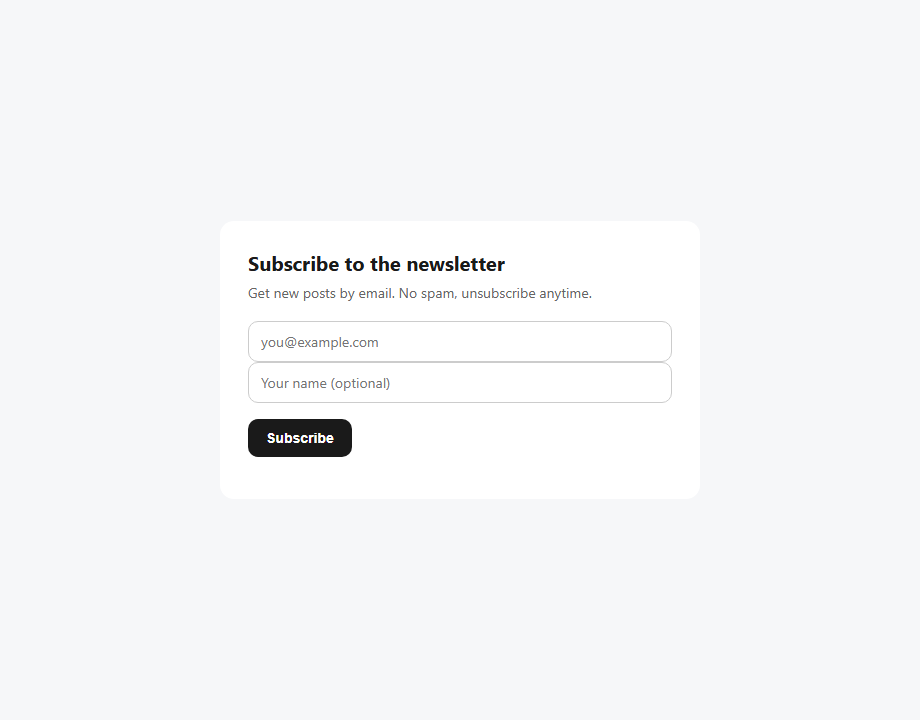
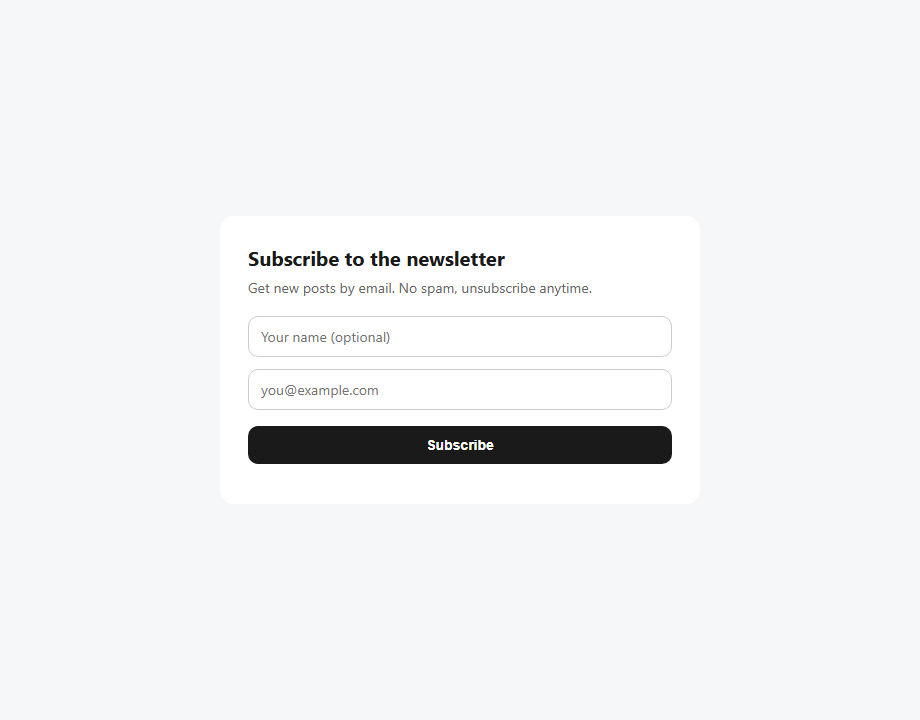
Put name field first and refine signup form spacing

Changed region(s): [[0.2739, 0.4583, 0.7304, 0.6417], [0.2739, 0.3361, 0.6391, 0.4278], [0.7, 0.4278, 0.7304, 0.4583]]

diff --git a/src/html.ts b/src/html.ts
@@ -31,6 +31,12 @@ const STYLE = `
   button.secondary { background: #e6e6e6; color: #111; }
   .msg { margin-top: 14px; font-size: 14px; font-weight: 600; }
   .row { display: flex; gap: 10px; flex-wrap: wrap; }
+  input:focus, textarea:focus { outline: none; border-color: #1a1a1a;
+    box-shadow: 0 0 0 3px rgba(26, 26, 26, 0.10); }
+  /* Evenly spaced vertical form (signup) */
+  form.stack { display: flex; flex-direction: column; gap: 12px; }
+  form.stack button { margin-top: 4px; }
+  form.stack .msg { margin-top: 0; }
 `;
 
 function shell(title: string, inner: string, script = ""): string {
@@ -71,9 +77,9 @@ export function signupPage(turnstileSiteKey?: string): string {
     "Subscribe",
     `<h1>Subscribe to the newsletter</h1>
      <p>Get new posts by email. No spam, unsubscribe anytime.</p>
-     <form id="f">
-       <input name="email" type="email" placeholder="you@example.com" required aria-label="Email">
+     <form id="f" class="stack">
        <input name="name" type="text" placeholder="Your name (optional)" aria-label="Name">
+       <input name="email" type="email" placeholder="you@example.com" required aria-label="Email">
        ${fieldInputs()}
        ${turnstile(turnstileSiteKey)}
        <button>Subscribe</button>
@@ -94,22 +100,24 @@ export function embedPage(turnstileSiteKey?: string): string {
   * { box-sizing: border-box; }
   body { margin: 0; background: transparent;
     font-family: -apple-system, Segoe UI, Roboto, Helvetica, Arial, sans-serif; }
-  form { display: flex; gap: 8px; flex-wrap: wrap; align-items: center; }
+  form { display: flex; gap: 10px; flex-wrap: wrap; align-items: center; }
   input { flex: 1 1 180px; padding: 10px 12px; font: inherit; font-size: 14px;
     border: 1px solid #ccc; border-radius: 10px; background: #fff; color: #111; }
+  input:focus { outline: none; border-color: #1a1a1a; box-shadow: 0 0 0 3px rgba(0, 0, 0, 0.08); }
   button { padding: 10px 16px; font: inherit; font-size: 14px; font-weight: 600;
     border: 0; border-radius: 10px; background: #1a1a1a; color: #fff; cursor: pointer; }
   .cf-turnstile { flex-basis: 100%; }
   .msg { flex-basis: 100%; font-size: 13px; color: #555; min-height: 1em; }
   @media (prefers-color-scheme: dark) {
     input { background: #1b1b1b; color: #eee; border-color: #444; }
+    input:focus { border-color: #eee; box-shadow: 0 0 0 3px rgba(255, 255, 255, 0.15); }
     button { background: #eee; color: #111; } .msg { color: #aaa; }
   }
 </style></head>
 <body>
   <form id="f">
-    <input name="email" type="email" placeholder="you@example.com" required aria-label="Email">
     <input name="name" type="text" placeholder="Your name (optional)" aria-label="Name">
+    <input name="email" type="email" placeholder="you@example.com" required aria-label="Email">
     ${fieldInputs()}
     ${turnstile(turnstileSiteKey)}
     <button>Subscribe</button>
